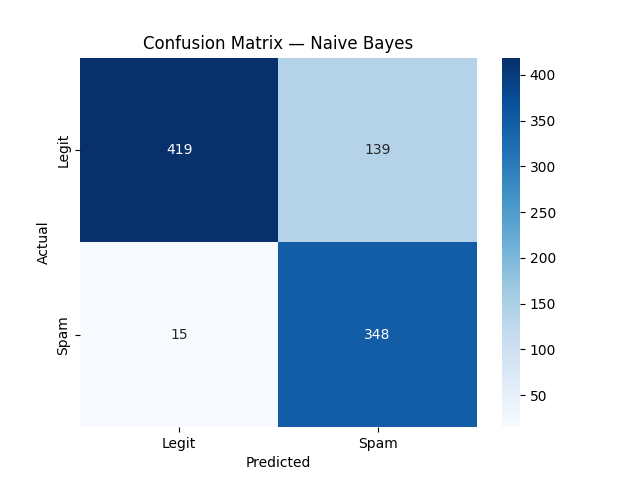
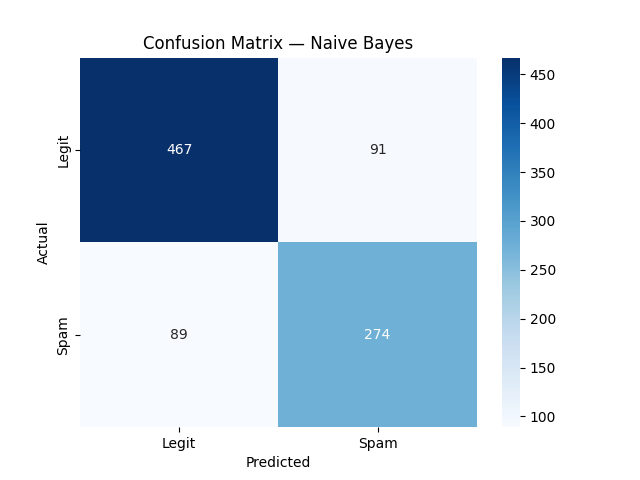
model training done

diff --git a/spam_detector.py b/spam_detector.py
@@ -1,23 +1,139 @@
+# =========================
+# IMPORTS
+# =========================
+from sklearn.model_selection import train_test_split, GridSearchCV
+from sklearn.preprocessing import StandardScaler
+from sklearn.naive_bayes import MultinomialNB
+from sklearn.svm import SVC
+from sklearn.linear_model import LogisticRegression
+from sklearn.metrics import (accuracy_score, precision_score,
+                             recall_score, f1_score,
+                             confusion_matrix, classification_report)
+
 import pandas as pd
 import numpy as np
 import matplotlib.pyplot as plt
 import seaborn as sns
+import joblib
 
-# The dataset has no header, so we name the columns manually
-# 57 features + 1 label
+
+# =========================
+# LOAD DATA
+# =========================
 cols = [f"feature_{i}" for i in range(57)] + ["label"]
-
 df = pd.read_csv("spambase.data", header=None, names=cols)
 
-# Basic exploration
-print(df.shape)          # (4601, 58)
-print(df["label"].value_counts())  # 0 = legit, 1 = spam
-print(df.describe())
-print(df.isnull().sum())  # Check for missing values
 
-# Visualise class balance
-df["label"].value_counts().plot(kind="bar", color=["steelblue","tomato"])
-plt.title("Spam vs Legitimate Emails")
-plt.xticks([0,1], ["Legit", "Spam"], rotation=0)
-plt.savefig("class_balance.png")
-plt.show()
+# =========================
+# EVALUATION FUNCTION
+# =========================
+def evaluate_model(name, model, X_test, y_test):
+    preds = model.predict(X_test)
+
+    print(f"\n{'='*40}")
+    print(f"  {name}")
+    print(f"{'='*40}")
+    print(f"  Accuracy:  {accuracy_score(y_test, preds):.4f}")
+    print(f"  Precision: {precision_score(y_test, preds):.4f}")
+    print(f"  Recall:    {recall_score(y_test, preds):.4f}")
+    print(f"  F1 Score:  {f1_score(y_test, preds):.4f}")
+    print(classification_report(y_test, preds, target_names=["Legit","Spam"]))
+
+    # Confusion Matrix
+    cm = confusion_matrix(y_test, preds)
+    sns.heatmap(cm, annot=True, fmt="d", cmap="Blues",
+                xticklabels=["Legit","Spam"],
+                yticklabels=["Legit","Spam"])
+    plt.title(f"Confusion Matrix — {name}")
+    plt.ylabel("Actual")
+    plt.xlabel("Predicted")
+    plt.savefig(f"confusion_{name.replace(' ','_')}.png")
+    plt.show()
+
+
+# =========================
+# PROGRESSIVE DATASET TESTING
+# =========================
+dataset_sizes = [0.1, 0.3, 0.6, 1.0]
+
+for size in dataset_sizes:
+    print(f"\n\n🚀 Training with {int(size*100)}% of dataset")
+
+    subset = df.sample(frac=size, random_state=42)
+
+    X = subset.drop("label", axis=1)
+    y = subset["label"]
+
+    X_train, X_test, y_train, y_test = train_test_split(
+        X, y, test_size=0.2, random_state=42, stratify=y
+    )
+
+    # Scaling
+    scaler = StandardScaler()
+    X_train_scaled = scaler.fit_transform(X_train)
+    X_test_scaled = scaler.transform(X_test)
+
+    # =========================
+    # MODEL 1: Multinomial NB
+    # =========================
+    nb_model = MultinomialNB()
+    nb_model.fit(X_train, y_train)  # NOTE: no scaling for NB
+
+    # =========================
+    # MODEL 2: SVM (TUNED)
+    # =========================
+    svm_params = {
+        "C": [0.1, 1, 10],
+        "gamma": ["scale", "auto"],
+        "kernel": ["rbf"]
+    }
+
+    svm_grid = GridSearchCV(SVC(probability=True), svm_params,
+                            cv=3, scoring="f1", n_jobs=-1)
+    svm_grid.fit(X_train_scaled, y_train)
+    svm_model = svm_grid.best_estimator_
+
+    print("Best SVM Params:", svm_grid.best_params_)
+
+    # =========================
+    # MODEL 3: Logistic Regression (TUNED)
+    # =========================
+    lr_params = {
+        "C": [0.1, 1, 10],
+        "solver": ["lbfgs"]
+    }
+
+    lr_grid = GridSearchCV(LogisticRegression(max_iter=1000),
+                           lr_params, cv=3, scoring="f1", n_jobs=-1)
+    lr_grid.fit(X_train_scaled, y_train)
+    lr_model = lr_grid.best_estimator_
+
+    print("Best LR Params:", lr_grid.best_params_)
+
+    # =========================
+    # EVALUATION
+    # =========================
+    evaluate_model("Naive Bayes", nb_model, X_test, y_test)
+    evaluate_model("SVM", svm_model, X_test_scaled, y_test)
+    evaluate_model("Logistic Regression", lr_model, X_test_scaled, y_test)
+
+    # =========================
+    # SAVE BEST MODEL (only for full dataset)
+    # =========================
+    if size == 1.0:
+        joblib.dump(lr_model, "best_spam_model.pkl")
+        joblib.dump(scaler, "scaler.pkl")
+        print("✅ Model saved!")
+
+
+# =========================
+# SAMPLE PREDICTION FUNCTION
+# =========================
+def predict_sample(sample, model, scaler):
+    sample_scaled = scaler.transform([sample])
+    prediction = model.predict(sample_scaled)
+    return "Spam" if prediction[0] == 1 else "Legit"
+
+
+# Example usage:
+# print(predict_sample(X_test.iloc[0], lr_model, scaler))

diff --git a/preprocessing.py b/preprocessing.py
@@ -71,6 +71,6 @@ def evaluate_model(name, model, X_test, y_test):
     plt.savefig(f"confusion_{name.replace(' ','_')}.png")
     plt.show()
 
-#evaluate_model("Naive Bayes",        nb_model,  X_test_scaled, y_test)
-#evaluate_model("SVM",                svm_model, X_test_scaled, y_test)
+evaluate_model("Naive Bayes",        nb_model,  X_test_scaled, y_test)
+evaluate_model("SVM",                svm_model, X_test_scaled, y_test)
 evaluate_model("Logistic Regression",lr_model,  X_test_scaled, y_test)
